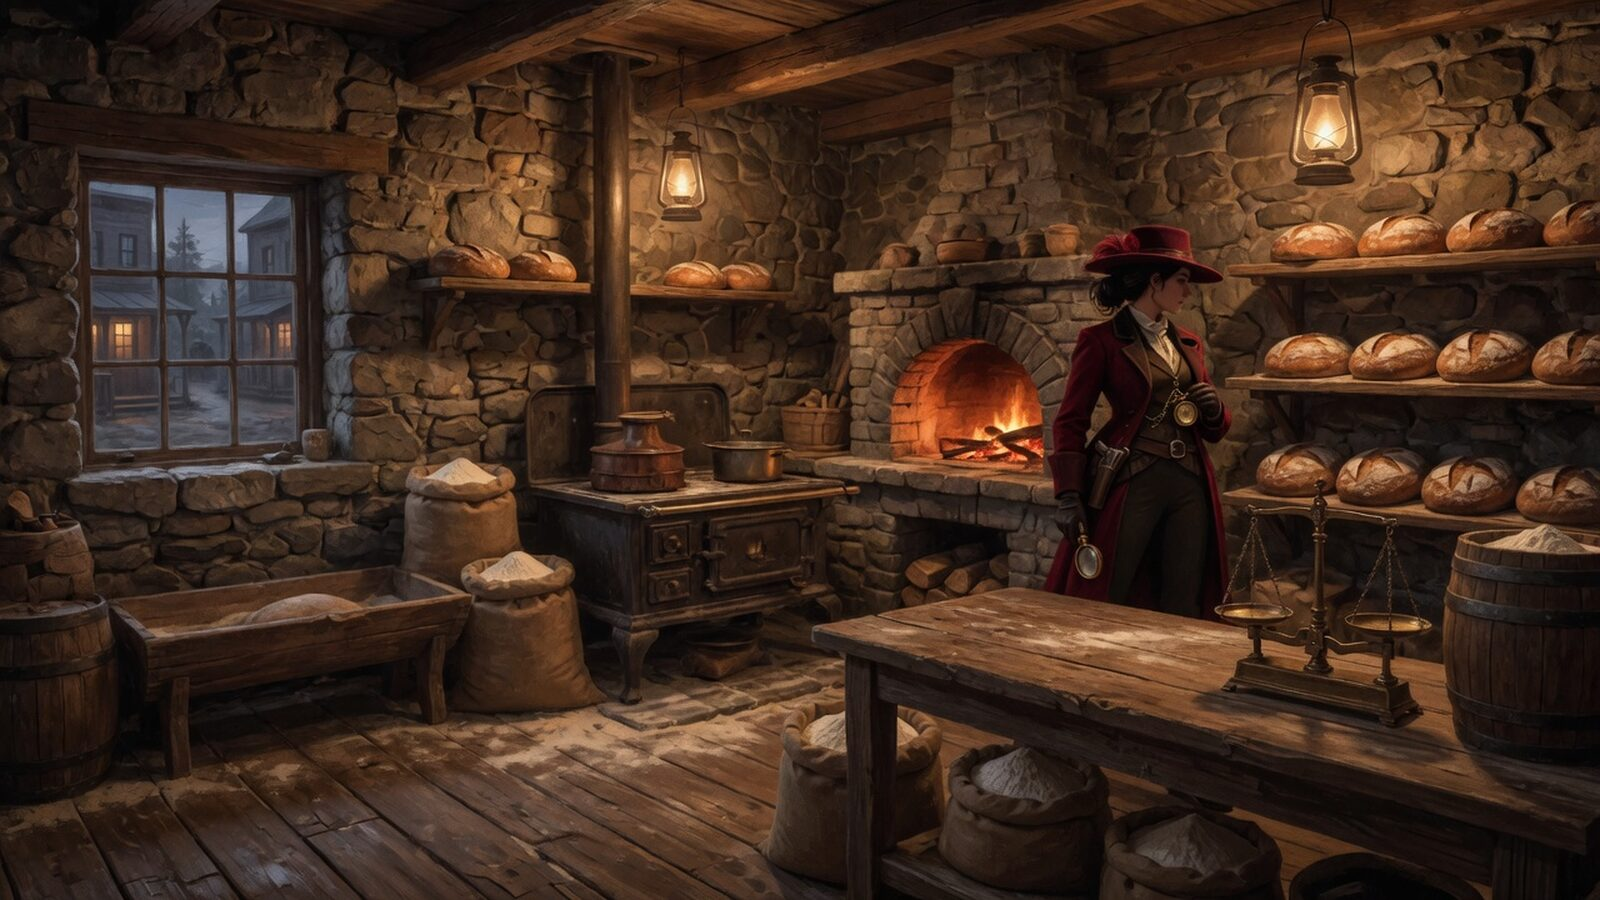
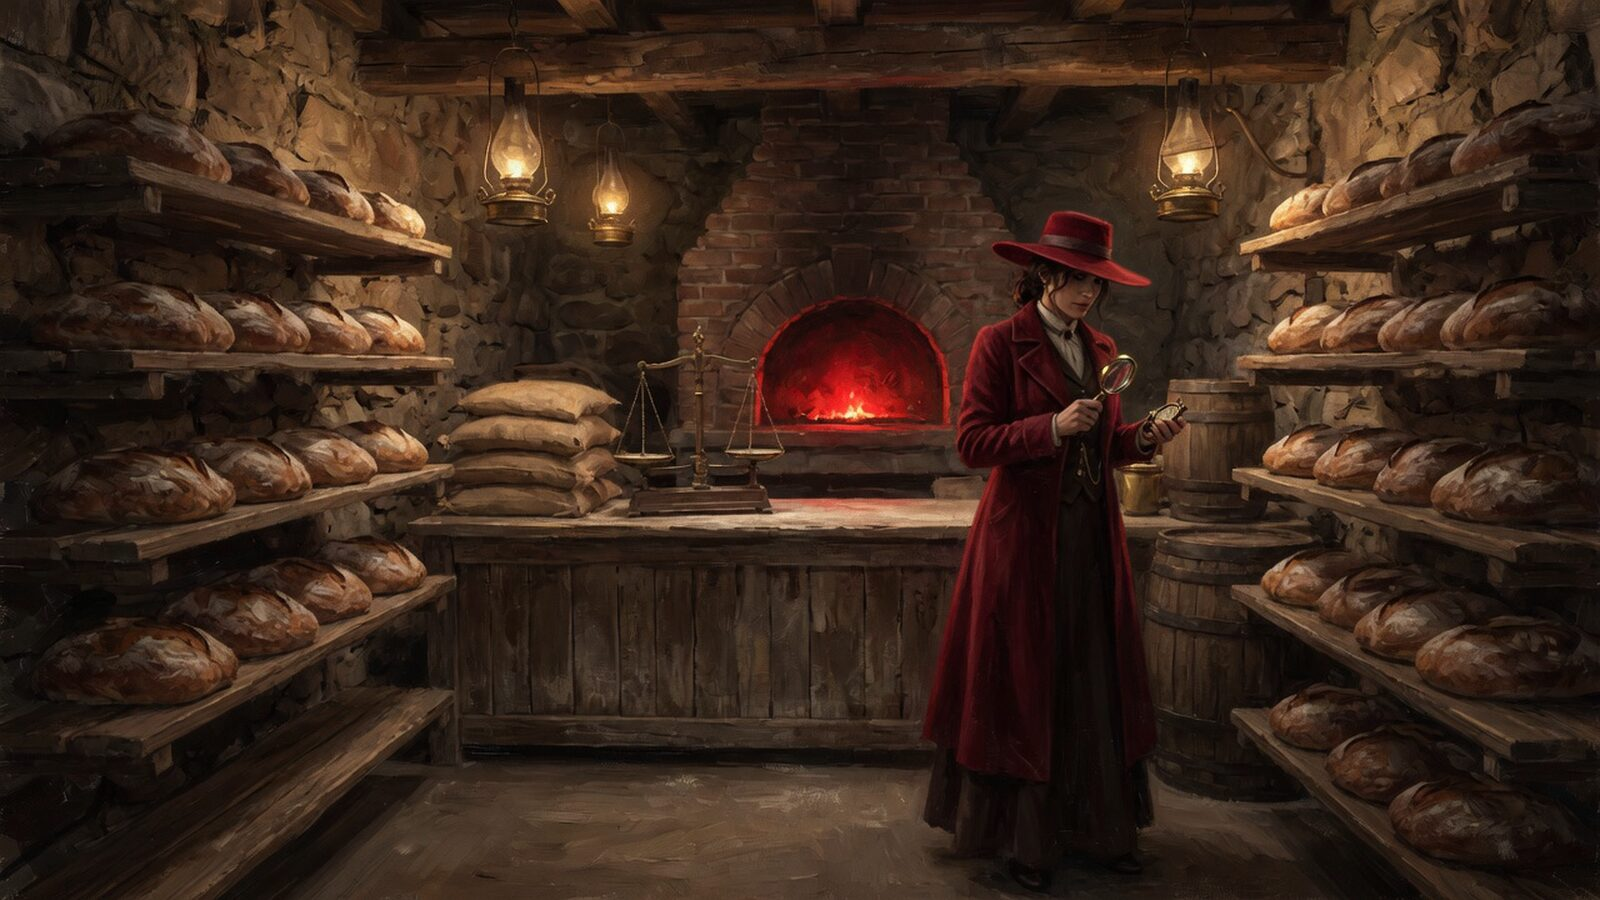
fix(explore): Out-of-time interior repainted from the bakery's real room; Guide voice; honest provenance
The 1885 interior is now a Grok image_edit of the bakery's own interior photo
(padded to 16:9), replacing a generic room made from the style reference alone.
The keeper speaks as the Where-in-Time Guide (reads an era by its true grain;
sees every era at once). The manifest names all three plates as derivatives of
the owners' photos: not for public release until they agree.

diff --git a/src/lib/localPlaces.ts b/src/lib/localPlaces.ts
@@ -78,12 +78,12 @@ export const LOCAL_PLACES: LocalPlace[] = [
       point: { lat: 38.442575, lng: -120.63102 },
       pointSource: 'Amador County parcel 029-043-010 (county GIS), centre of the lot',
       keeper: {
-        name: 'The Guide (Where in Time)',
+        name: 'The Guide to Where in Time',
         radiusM: 45,
         lines: [
           'Mind the front wall. Those stones are older than the building they dress — the 2021 sale papers say they came from Stone Jug, an 1850s camp up the road toward Upper Rancheria.',
-          'Somebody carried a camp’s worth of time down the hill and laid it here as a face. When the walls behind it went up, nobody has written down. Find that out and you know something the county’s online records don’t.',
-          'The bread is today’s, though. Friday to Sunday, eight to three.',
+          'Read it by its true grain: somebody carried a camp’s worth of time down the hill and set it here as a face. The stones say 1850s. The walls behind them have said nothing yet — nobody has written down when they went up. Find that out and you know something the county’s online records don’t.',
+          'This narrator sees every era at once, which is how it knows the bread is today’s. Friday to Sunday, eight to three. Proceed.',
         ],
       },
     },
